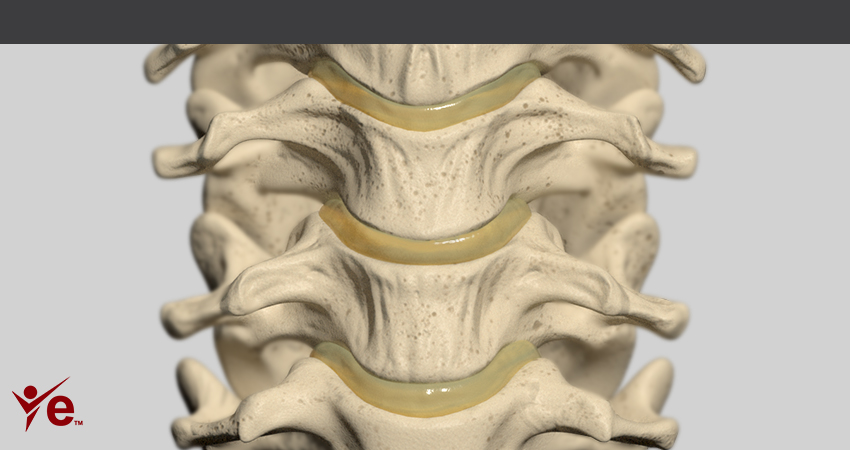
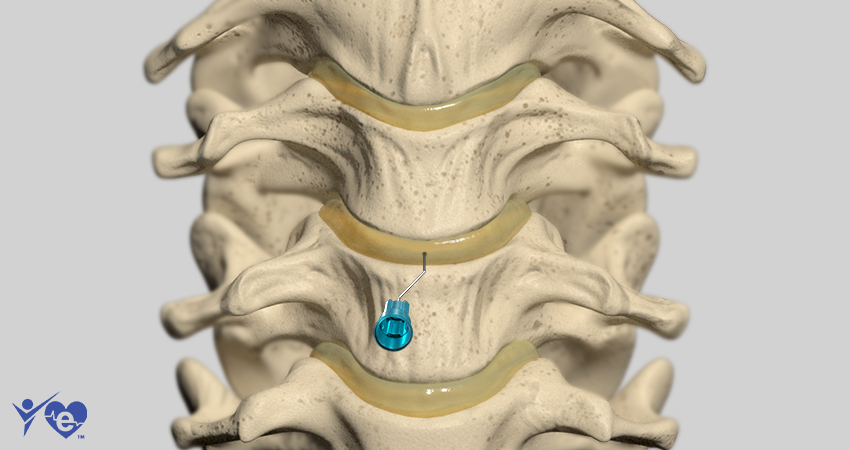
font, text, bg, pen size edit

diff --git a/index.html b/index.html
@@ -11,27 +11,31 @@
         *{
             margin: 0;
             padding: 0;
+            font-family: Calibri,sans-serif;
         }
         #popupTitle{
             left: 276px;
-            top: 127px;
-            font-size: 11px;
+            top: 124px;
+            font-size: 14px;
             color: #fff;
             display: none;
+            font-family: Calibri,sans-serif;
         }
         #popupText{
             left: 275px;
             top: 155px;
-            font-size: 12px;
+            font-size: 16px;
             text-align: justify;
             width: 290px;
             resize: none;
             display: none;
         }
         #popupBtn{
+            appearance: none;
+            font-family: Calibri,sans-serif;
             position: absolute;
-            background-color: rgb(122, 122, 122);
-            border: 2px solid rgb(122, 122, 122);
+            background-color: #4D4D4D;
+            border: 2px solid #A9A9A9;
             transition: border 0.3s ease-in;
             cursor: pointer;
             color: #fff;
@@ -39,10 +43,14 @@
             border-radius: 5px;
             letter-spacing: .5px;
             left: 370px;
-            top: 265px;
-            font-size: 12px;
+            top: 260px;
+            font-size: 16px;
             width: 100px;
             display: none;
+        }
+        #popupBtn:hover{
+            background-color: #A9A9A9;
+            border: 2px solid #4D4D4D;
         }
         .interface-text{
             position: absolute;
@@ -50,6 +58,7 @@
             border: none;
             letter-spacing: .5px;
             outline: none;
+            color: #4D4D4D;
         }
     </style>
 </head>

diff --git a/src/App.js b/src/App.js
@@ -52,9 +52,9 @@ let objectsParams = {
 	bovie: {
 		bovieObj: 'bovie_pen_01.obj',
 		bovieMtl: 'bovie_pen_01.mtl',
-		scale: new THREE.Vector3(1.0, 1.0, 1.0),
+		scale: new THREE.Vector3(1.5, 1.5, 1.5),
 		position: new THREE.Vector3(0.0, 2.0, 0.0),
-		rotation: new THREE.Vector3(60.0 * Math.PI / 180.0,
+		rotation: new THREE.Vector3(70.0 * Math.PI / 180.0,
 			-220.0 * Math.PI / 180.0, 0.0)
 	},
 	line: {
@@ -262,8 +262,8 @@ function createPopupPlane() {
 		transparent: true
 	});
 	popupPlaneMesh = new THREE.Mesh(popupPlane, popupMaterial);
-	popupPlaneMesh.scale.set(0.0235, 0.0235, 0.0235)
-	popupPlaneMesh.position.z = 10;
+	popupPlaneMesh.scale.set(0.0116, 0.0116, 0.0116);
+	popupPlaneMesh.position.z = 20;
 }
 
 function addPopup() {

diff --git a/build/bundle.js b/build/bundle.js
@@ -44306,9 +44306,9 @@
 		bovie: {
 			bovieObj: 'bovie_pen_01.obj',
 			bovieMtl: 'bovie_pen_01.mtl',
-			scale: new Vector3(1.0, 1.0, 1.0),
+			scale: new Vector3(1.5, 1.5, 1.5),
 			position: new Vector3(0.0, 2.0, 0.0),
-			rotation: new Vector3(60.0 * Math.PI / 180.0,
+			rotation: new Vector3(70.0 * Math.PI / 180.0,
 				-220.0 * Math.PI / 180.0, 0.0)
 		},
 		line: {
@@ -44516,8 +44516,8 @@
 			transparent: true
 		});
 		popupPlaneMesh = new Mesh(popupPlane, popupMaterial);
-		popupPlaneMesh.scale.set(0.0235, 0.0235, 0.0235);
-		popupPlaneMesh.position.z = 10;
+		popupPlaneMesh.scale.set(0.0116, 0.0116, 0.0116);
+		popupPlaneMesh.position.z = 20;
 	}
 
 	function addPopup() {
